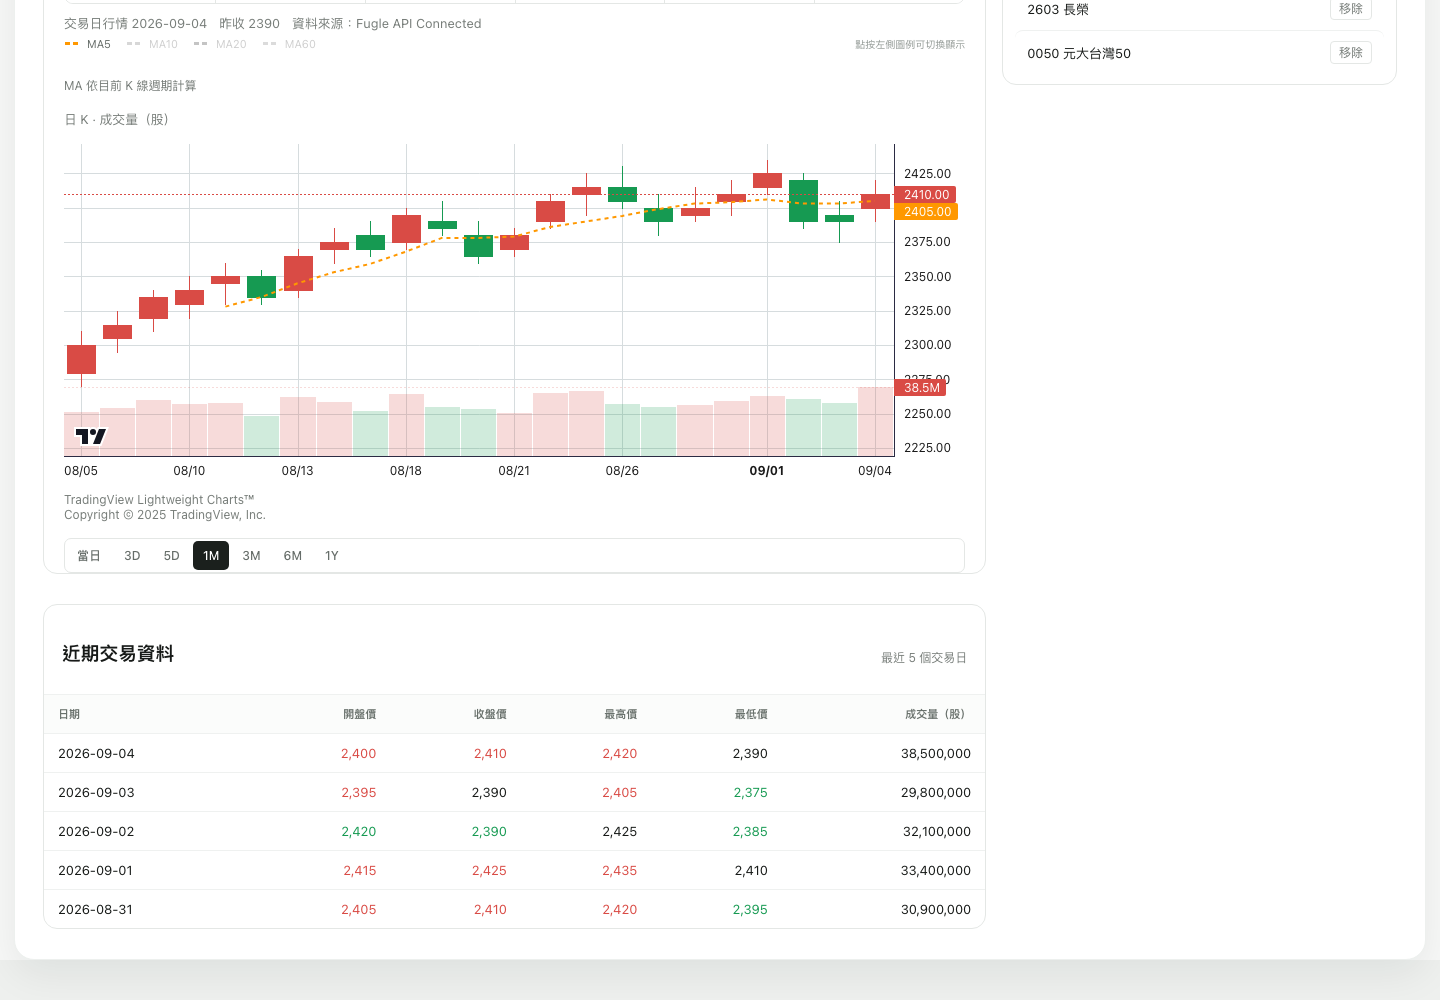
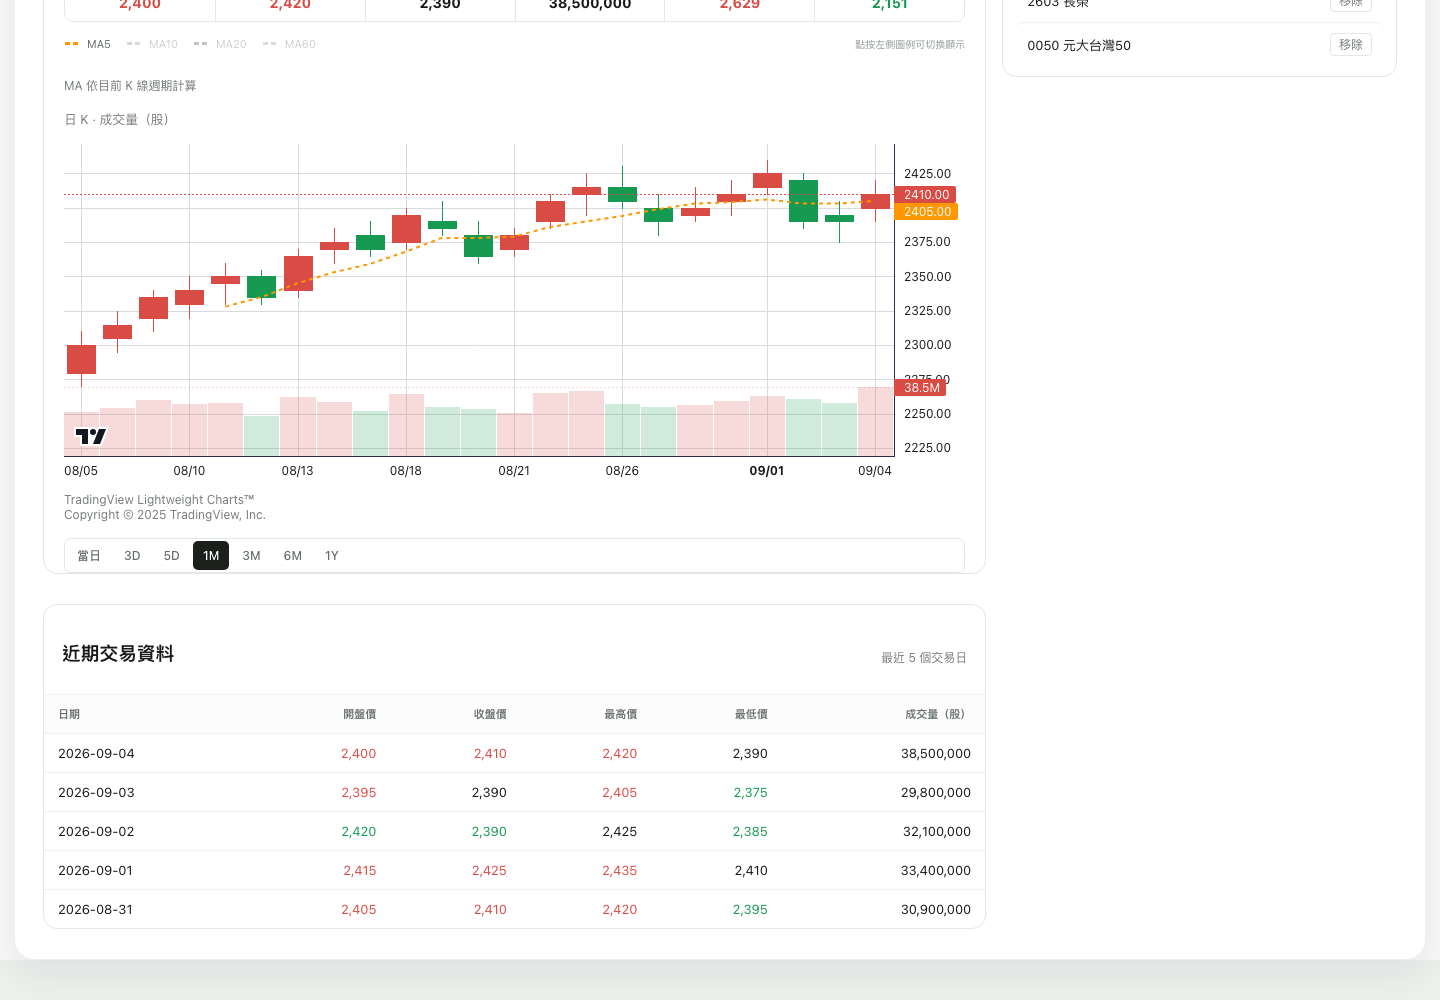
feat(web): Color index and quote prices, and reposition previous close

diff --git a/apps/web/src/features/stock-quote/ui/stock-quote-panel.tsx b/apps/web/src/features/stock-quote/ui/stock-quote-panel.tsx
@@ -7,11 +7,6 @@ import { fetchStockQuote, StockQuoteRequestError } from '../api/stock-quote.api.
 const FALLBACK_TOAST = 'Fugle 即時行情暫時無法使用，已自動切換至 TWSE MIS';
 const RECOVERY_TOAST = 'Fugle 行情服務已恢復，資料來源已切回 Fugle';
 
-const PROVIDER_LABELS = {
-  fugle: 'Fugle API Connected',
-  'twse-mis': 'TWSE MIS',
-} as const;
-
 const MARKET_LABELS = {
   TWSE: '上市',
   TPEX: '上櫃',
@@ -20,6 +15,12 @@ const MARKET_LABELS = {
 const COLOR_UP = '#d94b45';
 const COLOR_DOWN = '#169a52';
 const COLOR_FLAT = '#59605c';
+
+function changeClass(value: number): string {
+  if (value > 0) return 'price-up';
+  if (value < 0) return 'price-down';
+  return 'price-neutral';
+}
 
 function formatSigned(value: number, suffix = ''): string {
   return `${value >= 0 ? '+' : ''}${value}${suffix}`;
@@ -152,6 +153,7 @@ export function StockQuotePanel({
           >
             <span
               data-testid="stock-quote-price"
+              className={changeClass(quote.data.change)}
               style={{ fontSize: '2rem', fontWeight: '800', letterSpacing: '-0.02em' }}
             >
               {quote.data.price}
@@ -160,6 +162,19 @@ export function StockQuotePanel({
               change={quote.data.change}
               changePercent={quote.data.changePercent}
             />
+          </div>
+          <div
+            style={{
+              display: 'flex',
+              alignItems: 'center',
+              gap: '8px',
+              fontSize: '13px',
+              color: 'var(--text-muted)',
+              marginBottom: '4px',
+            }}
+          >
+            <span>前一交易日收盤 {quote.data.previousClose}</span>
+            {source.cacheHit && <span className="badge-cache">快取</span>}
           </div>
           <div data-testid="focus-quote-grid" className="focus-quote-grid">
             <QuoteCell label="開盤價" value={formatNullable(quote.data.openPrice)} compare={quote.data.openPrice} previousClose={quote.data.previousClose} />
@@ -171,12 +186,6 @@ export function StockQuotePanel({
             />
             <QuoteCell label="漲停價" value={formatNullable(quote.data.limitUpPrice)} tone="up" />
             <QuoteCell label="跌停價" value={formatNullable(quote.data.limitDownPrice)} tone="down" />
-          </div>
-          <div className="quote-meta-row">
-            <span>交易日行情{quote.data.tradeDate !== null ? ` ${quote.data.tradeDate}` : ''}</span>
-            <span>昨收 {quote.data.previousClose}</span>
-            <span>資料來源：{PROVIDER_LABELS[source.provider]}</span>
-            {source.cacheHit && <span className="badge-cache">快取</span>}
           </div>
         </div>
       )}

diff --git a/e2e/stock-quote.spec.ts b/e2e/stock-quote.spec.ts
@@ -67,9 +67,10 @@ test('stock quote happy path', async ({ page }) => {
   await expect(page.getByTestId('stock-quote-title')).toHaveText('2330 台積電');
   await expect(page.getByTestId('stock-quote-market')).toHaveText('上市');
   await expect(page.getByTestId('stock-quote-price')).toHaveText('568');
+  await expect(page.getByTestId('stock-quote-price')).toHaveClass(/price-up/);
   await expect(page.getByTestId('stock-quote-change')).toHaveText('▲ 2 (+0.35%)');
   await expect(page.getByRole('group', { name: '目前股價 568，較前一交易日上漲 2，漲跌幅 0.35%' })).toBeVisible();
-  await expect(page.getByText('昨收 566')).toBeVisible();
+  await expect(page.getByText('前一交易日收盤 566')).toBeVisible();
   await expect(page.getByText('資料來源：Fugle API Connected').first()).toBeVisible();
   await expect(page.getByText('最後更新：2026/09/04 13:30:00')).toBeVisible();
   // Enriched session grid
@@ -92,8 +93,10 @@ test('falling quote states explicit previous-day wording in green', async ({ pag
   await page.getByPlaceholder('請輸入股票代號').fill('2330');
   await page.getByRole('button', { name: '搜尋' }).click();
 
+  await expect(page.getByTestId('stock-quote-price')).toHaveClass(/price-down/);
   await expect(page.getByTestId('stock-quote-change')).toHaveText('▼ 6 (-1.06%)');
   await expect(page.getByRole('group', { name: '目前股價 560，較前一交易日下跌 6，漲跌幅 -1.06%' })).toBeVisible();
+  await expect(page.getByText('前一交易日收盤 566')).toBeVisible();
 });
 
 test('flat quote states 持平 wording', async ({ page }) => {
@@ -110,8 +113,10 @@ test('flat quote states 持平 wording', async ({ page }) => {
   await page.getByPlaceholder('請輸入股票代號').fill('2330');
   await page.getByRole('button', { name: '搜尋' }).click();
 
+  await expect(page.getByTestId('stock-quote-price')).toHaveClass(/price-neutral/);
   await expect(page.getByTestId('stock-quote-change')).toHaveText('0 (0.00%)');
   await expect(page.getByRole('group', { name: '目前股價 566，較前一交易日持平 0，漲跌幅 0%' })).toBeVisible();
+  await expect(page.getByText('前一交易日收盤 566')).toBeVisible();
 });
 
 test('source fallback and recovery toasts', async ({ page }) => {

diff --git a/e2e/stock-analysis.spec.ts b/e2e/stock-analysis.spec.ts
@@ -196,7 +196,7 @@ test('invalid symbol displays 查無此股票代號 without requesting history a
       body: JSON.stringify({ statusCode: 404, message: 'Stock not found', error: 'Not Found' }),
     });
   });
-  await page.route('**/api/v1/stocks/**/history*', (route) => {
+  await page.route('**/api/v1/stocks/999999/history*', (route) => {
     expect(new URL(route.request().url()).origin).toBe('http://localhost:3001');
     historyCalls.push(route.request().url());
     return route.fulfill({ status: 200, contentType: 'application/json', body: '{}' });
@@ -220,7 +220,7 @@ test('quote upstream 500 displays 查詢失敗，請稍後再試 without request
       body: JSON.stringify({ statusCode: 500, message: 'Internal Server Error' }),
     });
   });
-  await page.route('**/api/v1/stocks/**/history*', (route) => {
+  await page.route('**/api/v1/stocks/999999/history*', (route) => {
     expect(new URL(route.request().url()).origin).toBe('http://localhost:3001');
     historyCalls.push(route.request().url());
     return route.fulfill({ status: 200, contentType: 'application/json', body: '{}' });

diff --git a/e2e/market-overview.spec.ts b/e2e/market-overview.spec.ts
@@ -69,6 +69,7 @@ test('homepage loads TAIEX, OTC, and 上市三大法人 with positive/negative f
   await expect(taiexCard).toBeVisible();
   await expect(taiexCard).toContainText('加權指數 (TAIEX)');
   await expect(taiexCard).toContainText('46,551.13');
+  await expect(taiexCard.locator('.big-number')).toHaveClass(/price-up/);
   await expect(taiexCard).toContainText('▲ +693.47 (+1.51%)');
   await expect(taiexCard).toContainText('2026/09/04 收盤');
 
@@ -77,6 +78,7 @@ test('homepage loads TAIEX, OTC, and 上市三大法人 with positive/negative f
   await expect(otcCard).toBeVisible();
   await expect(otcCard).toContainText('櫃買指數 (OTC)');
   await expect(otcCard).toContainText('402.48');
+  await expect(otcCard.locator('.big-number')).toHaveClass(/price-up/);
   await expect(otcCard).toContainText('▲ +7.23 (+1.83%)');
   await expect(otcCard).toContainText('2026/09/04 收盤');
 

diff --git a/apps/web/src/features/market-overview/ui/market-overview-panel.tsx b/apps/web/src/features/market-overview/ui/market-overview-panel.tsx
@@ -33,7 +33,9 @@ function IndexCard({
   return (
     <article className="dashboard-card market-card" data-testid={`market-index-${title}`}>
       <div className="card-title">{title}</div>
-      <div className="big-number">{snapshot.close.toLocaleString('en-US', { minimumFractionDigits: 2, maximumFractionDigits: 2 })}</div>
+      <div className={`big-number ${changeClass(snapshot.change)}`}>
+        {snapshot.close.toLocaleString('en-US', { minimumFractionDigits: 2, maximumFractionDigits: 2 })}
+      </div>
       <div className={`index-change ${changeClass(snapshot.change)}`}>
         {formatIndexChange(snapshot.change, snapshot.changePercent)}
       </div>
